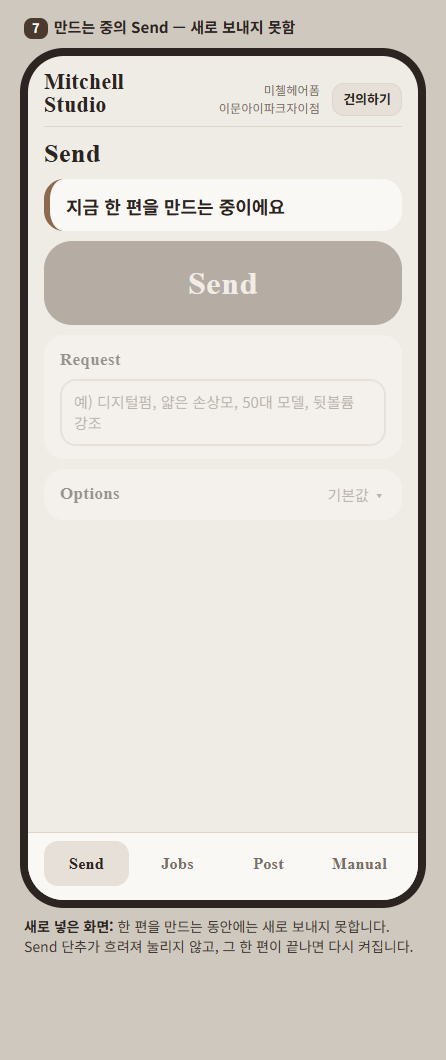
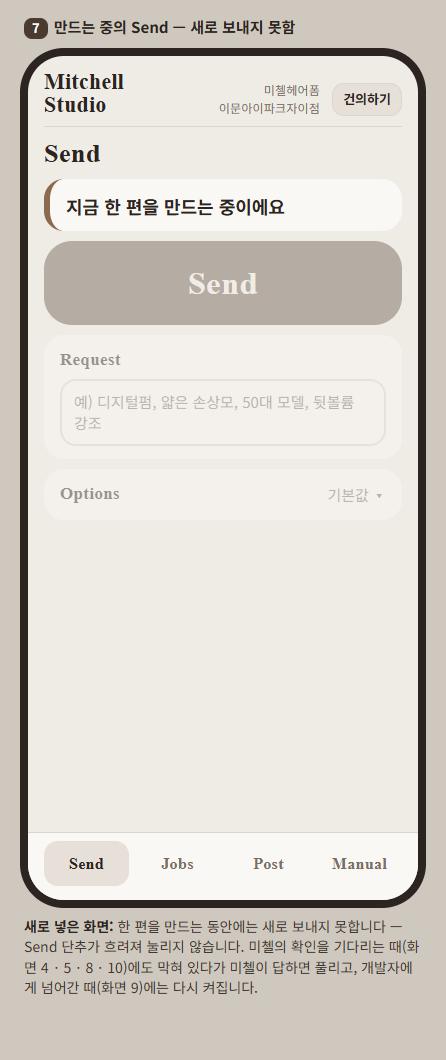
S8_UIUX_REWORK: 덧붙임 3 — 화면 9에 「처음부터 시작」 단추 · 화면 7 · 9 밖 설명을 요청서 003 16번에 맞춤 · s07 · s09 다시 찍음 · README · 반환

Changed region(s): [[0.0583, 0.8717, 0.9327, 0.934]]

diff --git a/projects/btsr/roles/rsch/sub/s8_uiux_rework/UIUX_웹앱1차시안_3판_CLAUDE.html b/projects/btsr/roles/rsch/sub/s8_uiux_rework/UIUX_웹앱1차시안_3판_CLAUDE.html
@@ -293,7 +293,7 @@ h2 { font-size:20px; margin:0 0 8px; }
     </div>
   </div>
   <div class="tabs"><span class="on">Send</span><span>Jobs</span><span>Post</span><span>Manual</span></div></div>
-  <div class="ft"><b>새로 넣은 화면:</b> 한 편을 만드는 동안에는 새로 보내지 못합니다. Send 단추가 흐려져 눌리지 않고, 그 한 편이 끝나면 다시 켜집니다.</div>
+  <div class="ft"><b>새로 넣은 화면:</b> 한 편을 만드는 동안에는 새로 보내지 못합니다 — Send 단추가 흐려져 눌리지 않습니다. 미첼의 확인을 기다리는 때(화면 4 · 5 · 8 · 10)에도 막혀 있다가 미첼이 답하면 풀리고, 개발자에게 넘어간 때(화면 9)에는 다시 켜집니다.</div>
 </div>
 
 <!-- ───────── 7 막힘 ① ───────── -->
@@ -333,10 +333,11 @@ h2 { font-size:20px; margin:0 0 8px; }
       <div class="barw"><div class="barf stop" style="width:56%"></div></div>
       <div class="pg"><span class="eh">Edit</span><span>5 / 9</span></div>
     </div>
-    <div class="btn soft">여기까지 만든 것 보기</div>
+    <div class="btn">처음부터 시작</div>
+    <div class="btn soft" style="margin-top:8px">여기까지 만든 것 보기</div>
   </div>
   <div class="tabs"><span>Send</span><span class="on">Jobs</span><span>Post</span><span>Manual</span></div></div>
-  <div class="ft"><b>2판에서 바뀐 것:</b> 풀이 글과 진행 기록을 뺐습니다. 미첼이 답해도 안 풀리면 개발자에게 알리고 멈춥니다. 만들던 것은 지우지 않고, 개발자가 본 뒤 멈춘 곳부터 이어 만듭니다.</div>
+  <div class="ft"><b>2판에서 바뀐 것:</b> 미첼이 답해도 안 풀리면 개발자에게 알리고 멈춥니다. 「처음부터 시작」을 누르면 올려 둔 사진 · 영상 그대로 처음부터 다시 만듭니다. 이때 Send 탭도 다시 켜져 다른 것을 새로 보낼 수 있고, 새로 보내면 멈춘 편은 미첼 화면에서 빠집니다(개발자는 그 편에서 까닭만 봅니다).</div>
 </div>
 
 <!-- ───────── 9 Done ───────── -->

diff --git a/projects/btsr/roles/rsch/sub/s8_uiux_rework/반환.md b/projects/btsr/roles/rsch/sub/s8_uiux_rework/반환.md
@@ -1,6 +1,6 @@
 # 반환 — MITCHELL_STUDIO/BTSR/RSCH/S8_UIUX_REWORK
 
-- 쓴 때: 2026-11-21 15:04 KST · 덧붙임 2를 넣어 고친 때: 2026-11-21 15:17 KST · 연 이: PRIMARY Paseo a97bebab · 패킷: `OPEN_PACKET.md`(8bd51fa · 덧붙임 d069374 · 덧붙임 2 ed67f92)
+- 쓴 때: 2026-11-21 15:04 KST · 덧붙임 2를 넣어 고친 때: 2026-11-21 15:17 KST · 덧붙임 3을 넣어 고친 때: 2026-11-21 15:32 KST · 연 이: PRIMARY Paseo a97bebab · 패킷: `OPEN_PACKET.md`(8bd51fa · 덧붙임 d069374 · 덧붙임 2 ed67f92 · 덧붙임 3 7c55ad5)
 - 낸 것: `UIUX_웹앱1차시안_3판_CLAUDE.html`(화면 14개 · `#s1`…`#s14`) · `s01.png`–`s14.png` · `README.md` · 이 글
 - 바탕: 시안 2판(`sub/s6_uiux_draft/v2/` — 고치지 않음) · 지금 웹앱 `app/webapp/static/app.html`(제품 저장소 로컬 `origin/main` 3072e7e를 `git show`로만 봄)
 - 커밋: 첫 판 29cd237(화면 13개) → 덧붙임을 넣은 판 fc31856(화면 14개) → 덧붙임 2를 넣은 판(화면 2 · 3 · 10만 고침 · 번호 그대로)이 그 다음 커밋
@@ -14,6 +14,7 @@
 | 3 | "보내기가 아니고 Send로 해주세요." | 큰 단추 `Send`. 카드 머리 '다 됨'은 뺌(화면 10 · 11은 바 아래 `Done`). 한글 견줘 보기 뺌. |
 | 4 | "작업 목록 없습니다. 하나씩만하세요. 진행중엔 그냥 프로그레스 바" | 작업 목록 화면 뺌. Jobs = 지금 만드는 한 편. 만드는 중 = 제목 · 하는 일 한 줄 · 바 · 바 아래 단계 이름과 몇째(예: `Voice · Music · Fit · Export` 7 / 9). 진행 기록 · 단계 줄은 모든 화면에서 뺌. 확인이 필요하면 같은 화면에 물음 한 줄 + 단추. |
 | 5 | "도대체 알림 설명화면은 왜 있는건가요?" · 14:59:10 "알림 설정은 따로 메뉴얼로 빼시고요." | 알림 화면 뺌. 화면 밖 설명과 README에 "알림 켜는 법은 Manual 탭" 한 줄. |
+| 덧붙임 3 | 15:27:23 "변경된 기획에 맞춰 시안도 수정요청 하세요." · 15:17:53 "…미첼이 재작업을 할수 있어야지요…" · 15:18:31 "처음부터 시작이라던지요" (PRIMARY 패킷 덧붙임 3 · 요청서 003 16번) | 화면 9에 「처음부터 시작」 단추를 넣음 — 진한 주 단추로 위에, 「여기까지 만든 것 보기」는 옅게 아래에 그대로. 화면 속 설명 글은 더하지 않음. 화면 9 밖 설명을 16번에 맞춤('개발자가 본 뒤 멈춘 곳부터 이어 만듭니다'를 빼고 → 처음부터 다시 만듦 · Send 다시 켜짐 · 새로 보내면 멈춘 편은 미첼 화면에서 빠짐 · 개발자는 까닭만 봄). 화면 7 밖 설명에 '확인을 기다리는 때(화면 4 · 5 · 8 · 10)에도 막힘 · 답하면 풀림 · 개발자에게 넘어간 때(화면 9)는 다시 켜짐'을 넣고 '그 한 편이 끝나면 다시 켜집니다'는 뺌. `s09` · `s07` 다시 찍음(화면 7은 화면 그림은 그대로이고 그림에 함께 찍히는 밖 설명만 바뀜). README 바꾼 것에 여섯째 줄. |
 | 덧붙임 2 | 15:08:02 "1 권고안 승인하고…" · 15:12:00 "네 일단 1차는 그냥 갑시다." (PRIMARY 패킷 덧붙임 2) | 화면 2 · 3에서 바 아래 칸('보낸 것' · 'Intake' 나눈 결과 · 템플릿 줄)을 뺌 — 화면 6과 같은 꼴. 'AI 얼굴 사진이 없어도 묻지 않음'은 화면 3의 화면 밖 설명으로. 화면 10의 화면 밖 설명에 "「승인」을 누르면 Post 탭으로 가고, 끝난 영상은 거기서 다시 봅니다" 한 줄. `s02` · `s03` · `s10` 다시 찍음. |
 | 덧붙임 | 15:00:25 "막아야죠" (PRIMARY 패킷 덧붙임) | 화면 7 '만드는 중의 Send'를 새로 넣음 — 현황 한 줄 "지금 한 편을 만드는 중이에요" + 흐려져 눌리지 않는 Send 단추. 설명 글 없음. |
 
@@ -55,9 +56,11 @@
 ## 확인하지 않은 것
 
 - 그림은 윈도우의 화면 없는 Chrome(446×1060)으로 찍음. 아이폰 사파리에서 보지 않음 — 글꼴이 다르게 보일 수 있음.
-- 첫 판 13개 그림은 모두 눈으로 봄(넘침 · 겹침 없음). 덧붙임 뒤 다시 찍은 14개 가운데는 새 화면 7과 끝 화면 14만 다시 봄 — 나머지는 번호만 바뀜. 덧붙임 2로 다시 찍은 셋(`s02` · `s03` · `s10`)은 모두 봄. HTML을 넓은 창에서 한꺼번에 펼친 꼴은 찍어 보지 않음.
+- 첫 판 13개 그림은 모두 눈으로 봄(넘침 · 겹침 없음). 덧붙임 뒤 다시 찍은 14개 가운데는 새 화면 7과 끝 화면 14만 다시 봄 — 나머지는 번호만 바뀜. 덧붙임 2로 다시 찍은 셋(`s02` · `s03` · `s10`)과 덧붙임 3으로 다시 찍은 둘(`s07` · `s09`)은 모두 봄. HTML을 넓은 창에서 한꺼번에 펼친 꼴은 찍어 보지 않음.
 - 'n / 9'는 지금 웹앱의 단계 아홉(Send · Intake · Script · Face · Edit · Preview · Voice… · Done · Post)을 센 것. 바가 실제로 어떻게 차는지(단계마다 한 칸인지 · 단계 안에서도 움직이는지)는 정해진 바 없음.
 - 화면 12 · 13의 바에는 단계 이름 · 몇째를 적지 않음 — 고쳐 만들 때 · 규격을 맞출 때 바가 어디서부터 차는지 정해진 바 없음.
-- 미첼의 확인을 기다리는 동안(화면 4 · 5 · 8 · 10)과 개발자에게 넘어간 동안(화면 9)에도 Send가 막히는지는 정해진 바 없음 — 화면 7은 '만드는 중'만 그림.
+- (덧붙임 3으로 정해짐) 확인을 기다리는 때에는 Send가 막히고, 개발자에게 넘어간 때에는 다시 켜짐. 다시 켜진 Send 화면 · 「처음부터 시작」을 누른 뒤의 화면은 따로 그리지 않음(화면 1 · 2 꼴로 봄 — 내 읽기).
+- 화면 9의 Jobs 탭 빨간 숫자는 넣지 않고 그대로 둠 — 「처음부터 시작」이 '미첼이 확인할 것'으로 세어지는지는 정해진 바 없음.
+- 화면 9의 '개발자가 본 뒤 이어 만들기'가 아주 없어지는지 · 「처음부터 시작」으로 다시 만든 편이 또 멈출 때는 요청서 16번에 RSCH의 읽기([안])로만 적혀 있어 시안에 적지 않음.
 - Jobs에 만드는 것이 없을 때의 화면은 그리지 않음.
 - 제품 저장소는 로컬 `origin/main`만 봄(fetch 안 함) — 원격의 가장 새 것인지는 보지 않음.

diff --git a/projects/btsr/roles/rsch/sub/s8_uiux_rework/README.md b/projects/btsr/roles/rsch/sub/s8_uiux_rework/README.md
@@ -7,6 +7,7 @@
 3. 이름은 영어 그대로입니다 — 큰 단추도 `Send`. 한글로 바꾼 꼴 견줘 보기는 뺐습니다.
 4. 작업 목록을 없앴습니다 — Jobs에는 지금 만드는 한 편만, 만드는 중에는 하는 일 한 줄과 **프로그레스 바**만 보입니다(결과 칸도 없음). 만드는 동안에는 새로 보내지 못합니다(화면 7).
 5. 알림 설명 화면을 뺐습니다 — 알림 켜는 법은 Manual 탭의 일입니다.
+6. 개발자에게 넘어간 화면에 **「처음부터 시작」** 단추를 넣었습니다(화면 9) — 올려 둔 사진 · 영상 그대로 다시 만들고, 이때 Send도 다시 켜집니다.
 
 화면은 15개에서 14개가 됐습니다. 그림 속 작업 · 글 · 사람은 모두 지어낸 예시입니다.
 
